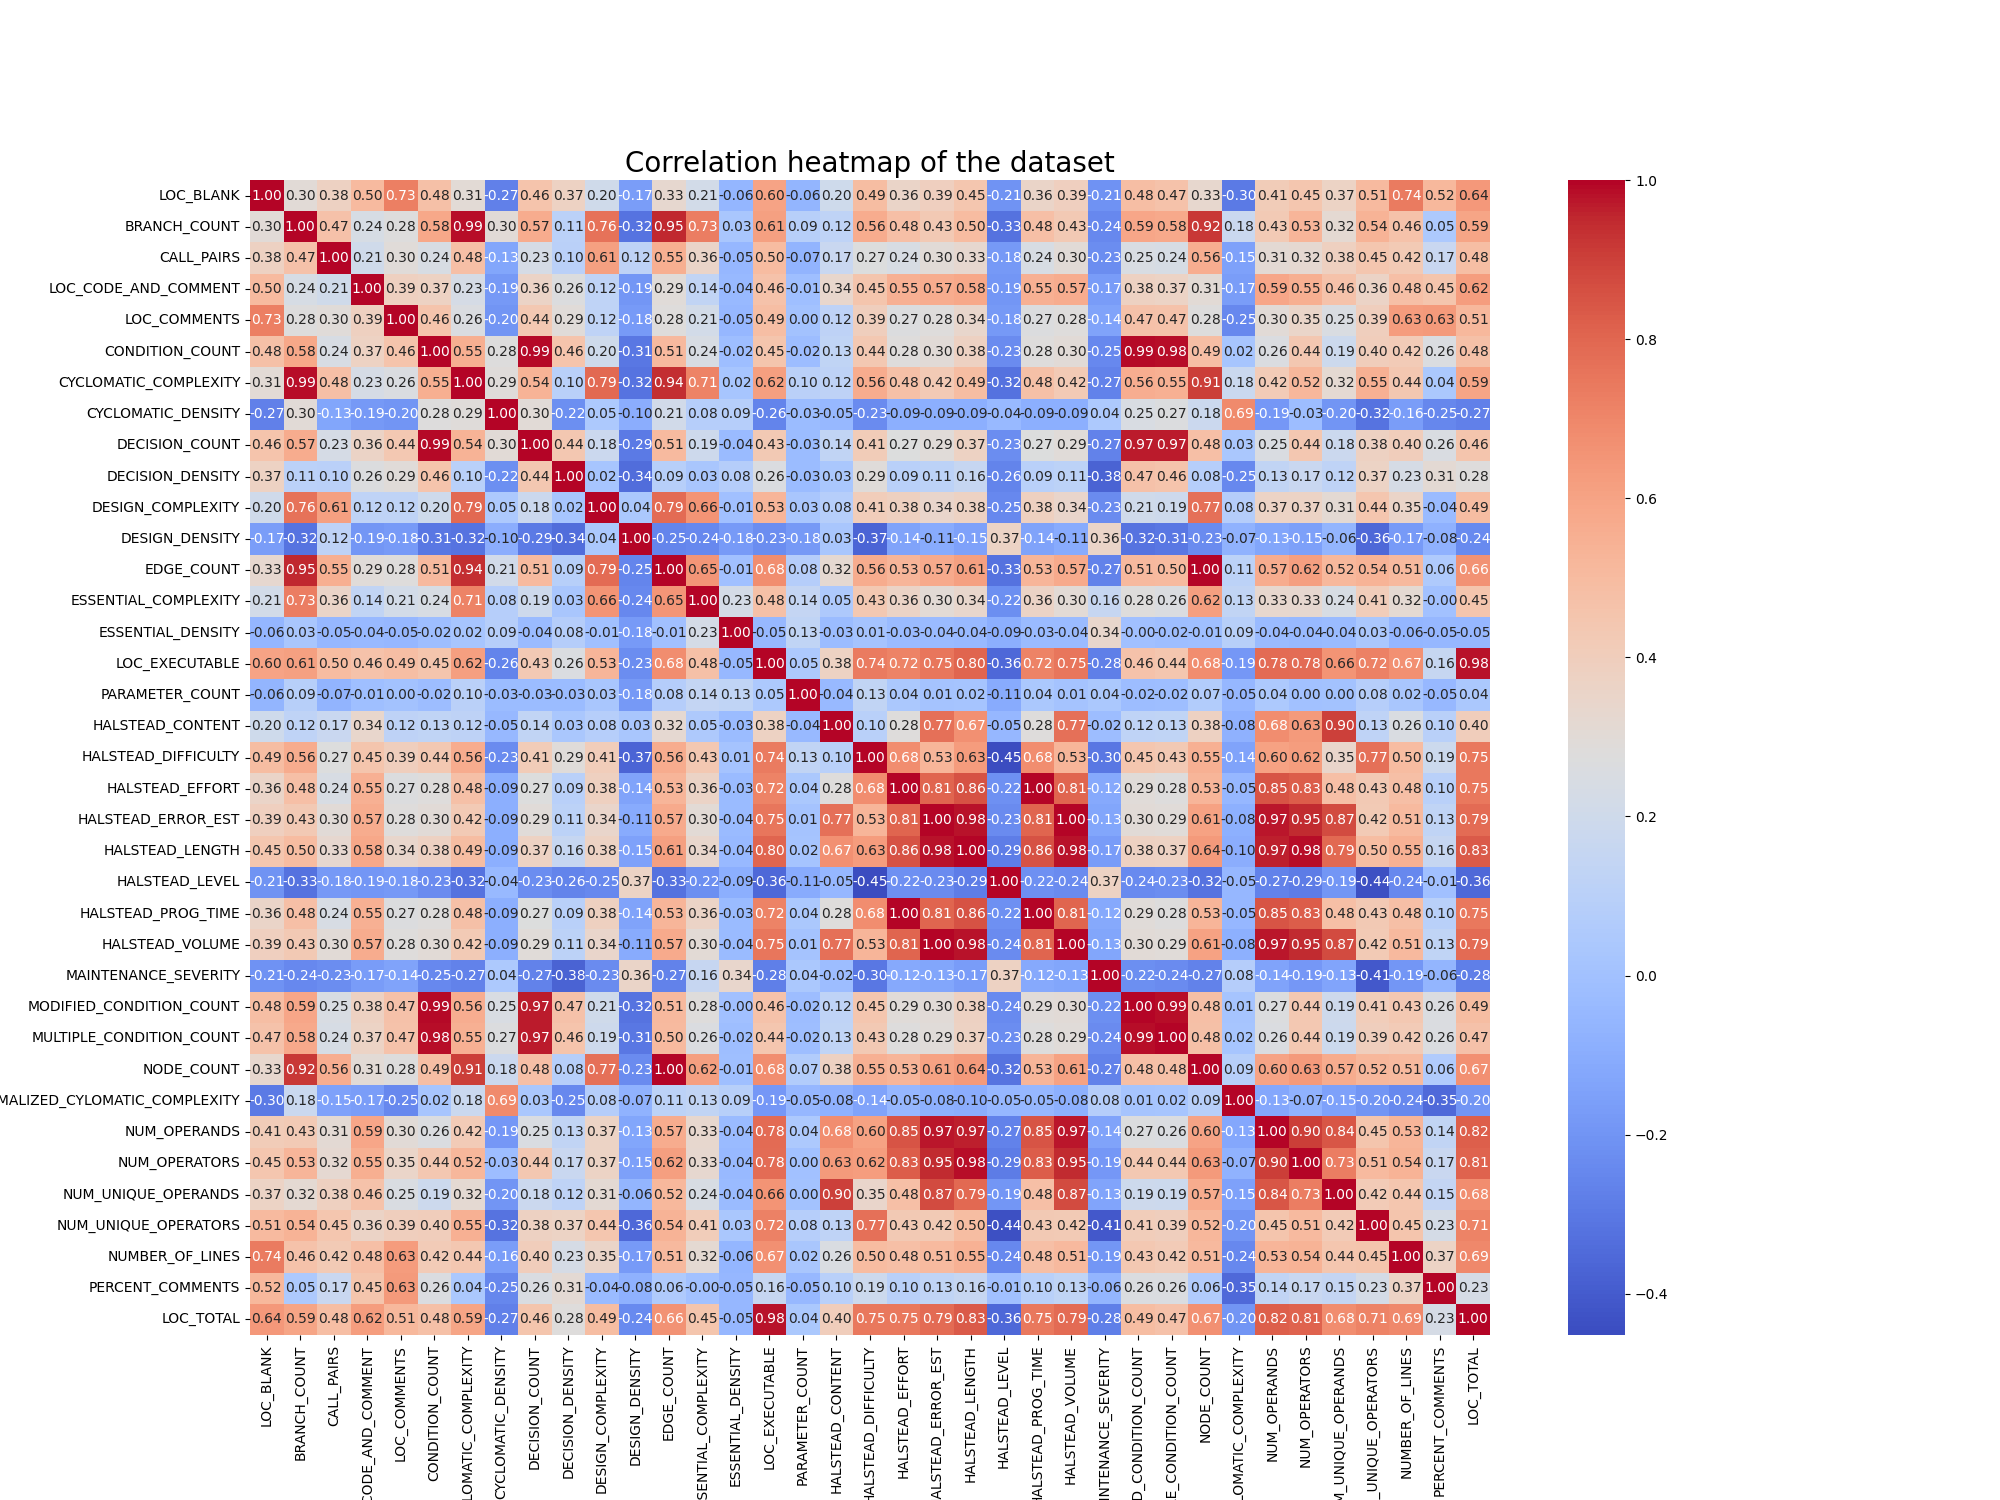
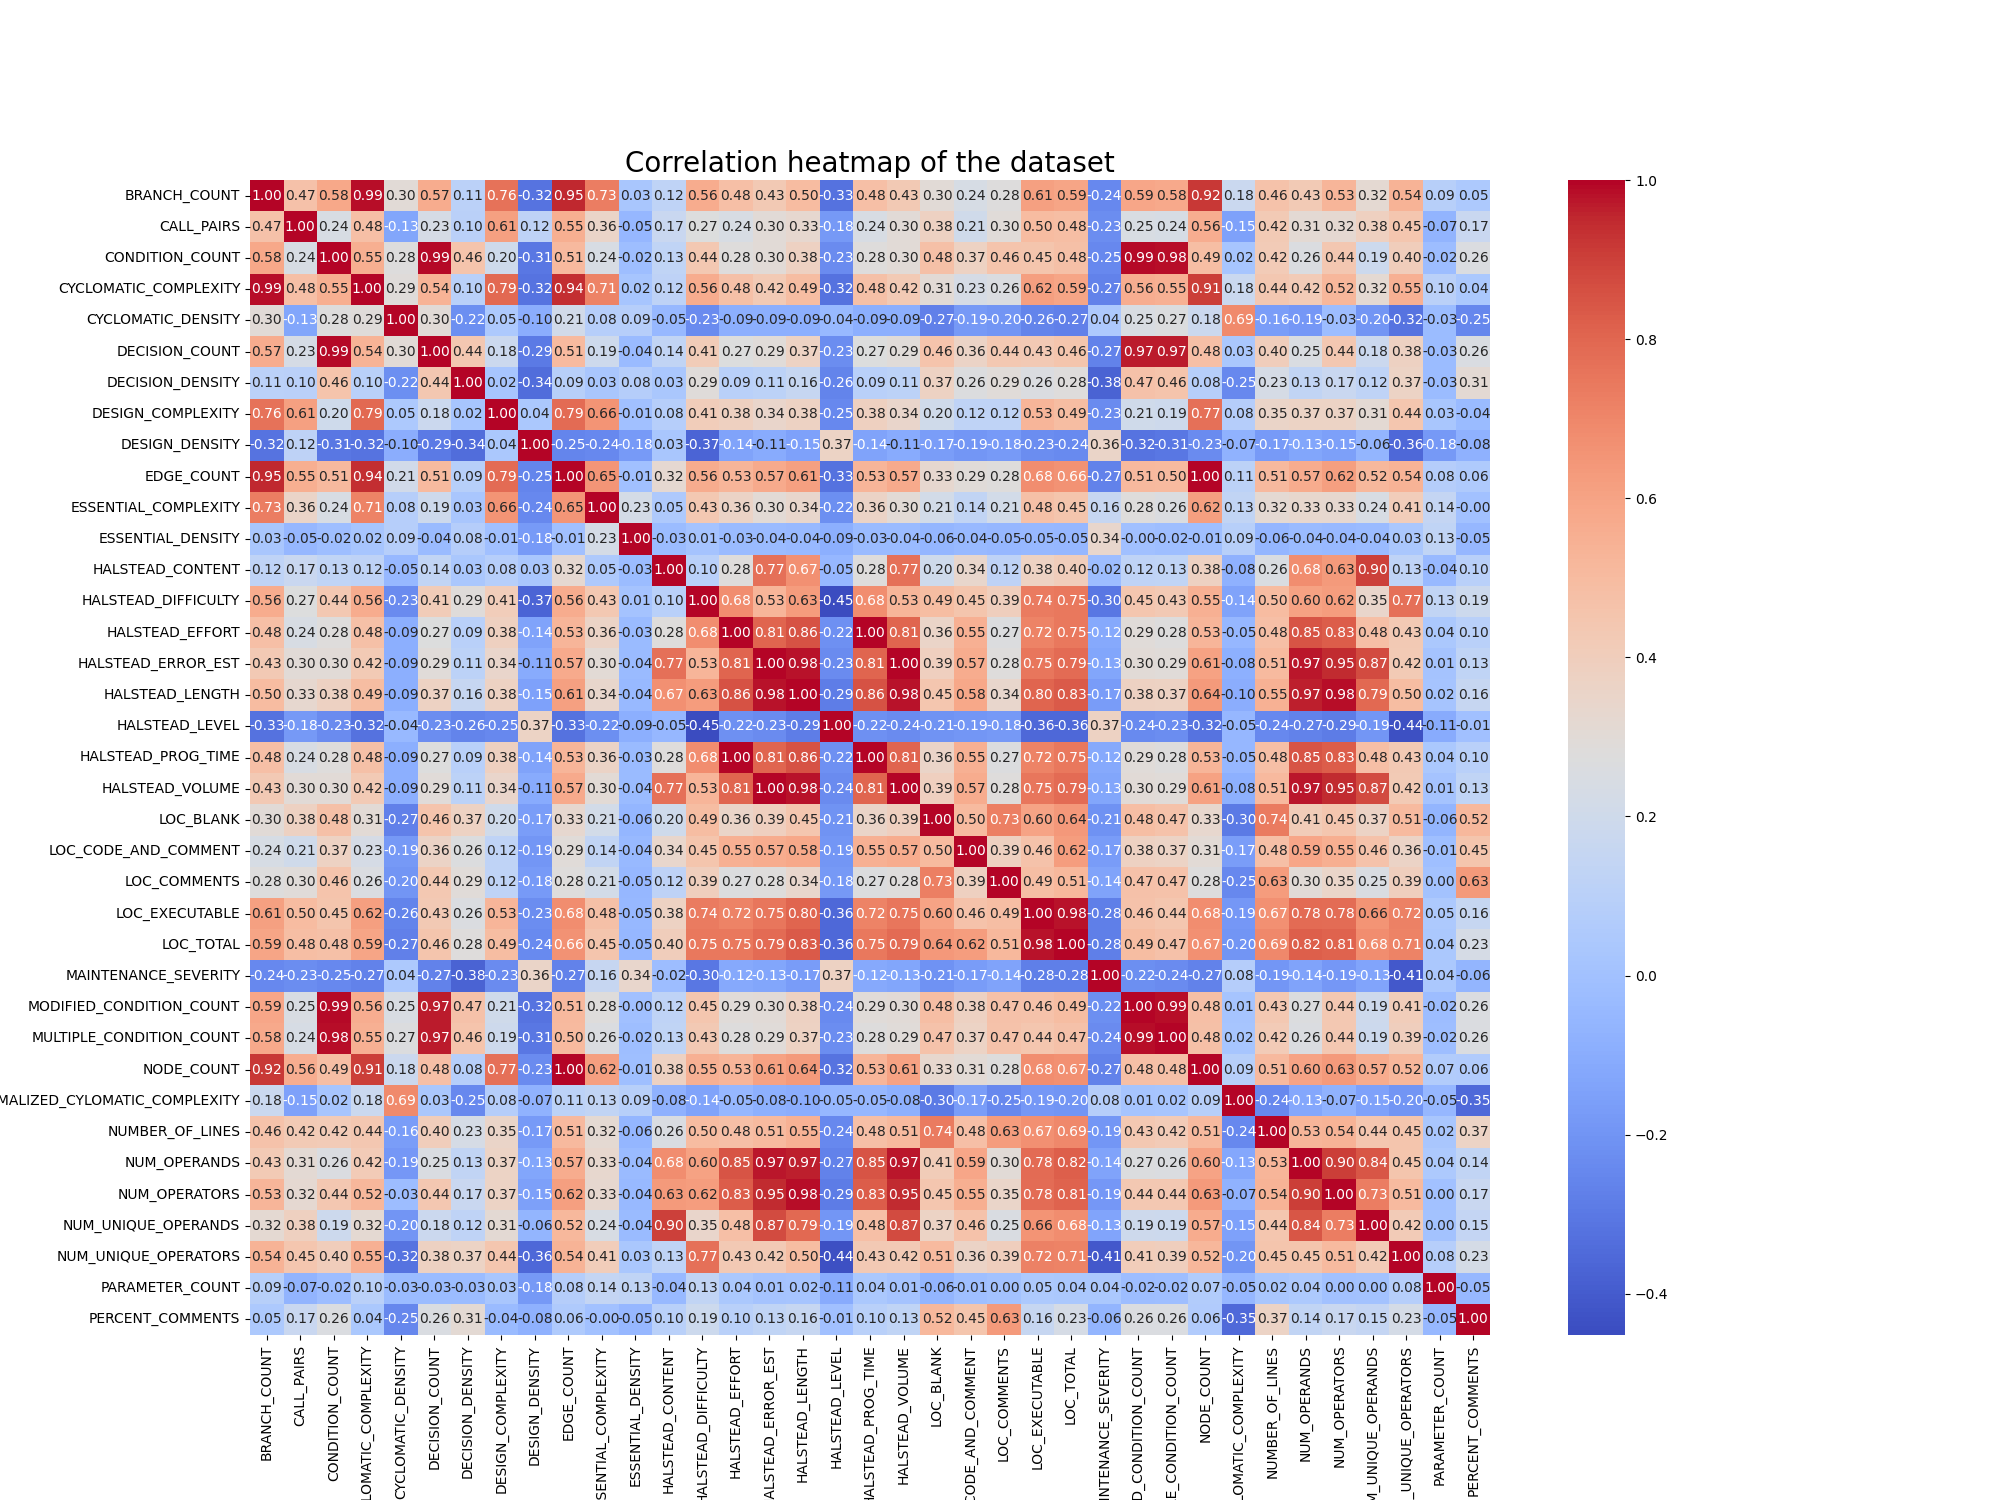
part 1 done

diff --git a/eda.py b/eda.py
@@ -1,9 +1,11 @@
 import os
 
 import matplotlib.pyplot as plt
+import numpy as np
 import openml
 import pandas as pd
 import seaborn as sns
+from openml import OpenMLDataset
 from sklearn.preprocessing import MinMaxScaler, StandardScaler
 
 from config import Config
@@ -22,8 +24,17 @@ def create_assets_folder() -> None:
 
 
 class EDA:
+    """
+    Class for Exploratory Data Analysis (EDA) on a dataset.
+    """
+
     def __init__(self):
-        self.dataset = None
+        """
+        Initialize the EDA class.
+
+        On initialization, assets folders are created if they don't exist, following Config class.
+        """
+        self.dataset: OpenMLDataset | None = None
         self.X: pd.DataFrame = pd.DataFrame()
         self.y: pd.Series = pd.Series()
 
@@ -68,17 +79,7 @@ class EDA:
         print(self.X.describe().to_markdown())
         print("----------------------------------")
 
-        print("----------------------------------")
-        print("\nSummary statistics of the target variable:")
-        print(self.X.info())
-        print("----------------------------------")
-
-        print("----------------------------------")
-        print("\nFirst 5 rows of the dataset:")
-        print(self.X.head())
-        print("----------------------------------")
-
-    def plot_visualization(self) -> None:
+    def plot_visualization(self, file_name_suffix="") -> None:
         """
         Plot visualizations of the dataset.
         1. Histograms / KDE plots
@@ -86,25 +87,26 @@ class EDA:
         3. Class distribution (sns.countplot)
         """
 
-        # Histograms / KDE plots
-        self.X.hist(figsize=(20, 15), bins=100)
+        # Histograms
+        self.X[sorted(self.X.columns)].hist(figsize=(20, 15), bins=100)
         plt.suptitle("Histograms of the dataset", fontsize=20)
-        plt.savefig(Config.DIR_EDA + "/histograms.png")
+        plt.tight_layout(pad=1)
+        plt.savefig(Config.DIR_EDA + f"/histograms{file_name_suffix}.png")
 
         # Correlation heatmap
         plt.figure(figsize=(20, 15))
-        sns.heatmap(self.X.corr(), annot=True, fmt=".2f", cmap="coolwarm")
+        sns.heatmap(self.X[sorted(self.X.columns)].corr(), annot=True, fmt=".2f", cmap="coolwarm")
         plt.title("Correlation heatmap of the dataset", fontsize=20)
-        plt.savefig(Config.DIR_EDA + "/correlation_heatmap.png")
+        plt.savefig(Config.DIR_EDA + f"/correlation_heatmap{file_name_suffix}.png")
 
         # Class distribution
         plt.figure(figsize=(20, 15))
         sns.countplot(x=self.y, data=self.X)
         plt.title("Class distribution of the dataset", fontsize=20)
         plt.xticks(rotation=90)
-        plt.savefig(Config.DIR_EDA + "/class_distribution.png")
+        plt.savefig(Config.DIR_EDA + f"/class_distribution{file_name_suffix}.png")
 
-    def data_checks(self) -> None:
+    def data_checks(self, file_name_suffix="") -> None:
         """
         Checks:
         1. Missing values (df.isnull().sum())
@@ -132,7 +134,7 @@ class EDA:
             fig.delaxes(axes[j])
 
         plt.tight_layout()
-        plt.savefig(Config.DIR_EDA + "/boxplots.png")
+        plt.savefig(Config.DIR_EDA + f"/boxplots{file_name_suffix}.png")
 
         # Check for outliers using IQR
 
@@ -194,3 +196,17 @@ class EDA:
         # Remove outliers
         self.X = self.X[~((self.X < lower_bound) | (self.X > upper_bound)).any(axis=1)]
         print("Outliers removed from the dataset.")
+
+    def drop_highly_correlated_features(self, threshold: float = 0.9) -> None:
+        """
+        Drop highly correlated features from the dataset.
+        """
+        to_drop = ['HALSTEAD_ERROR_EST', 'HALSTEAD_LENGTH', 'HALSTEAD_PROG_TIME', 'HALSTEAD_VOLUME']
+        self.X = self.X.drop(columns=to_drop)
+        print(f"Dropped highly correlated features: {to_drop}")
+
+    def export_eda_members(self) -> (pd.DataFrame, pd.Series):
+        """
+        Export the dataset members (X and y).
+        """
+        return self.X, self.y

diff --git a/main.py b/main.py
@@ -1,7 +1,9 @@
 from eda import EDA
 
 if __name__ == "__main__":
+    ####################################################################################
     # Part 1 - EDA (Exploratory Data Analysis)
+    ####################################################################################
     eda = EDA()
 
     # Exercise 1: Load the dataset
@@ -21,7 +23,7 @@ if __name__ == "__main__":
     eda.data_checks()
 
     # Exercise 6: Normalize and standardize numeric features (if you think it is needed)
-    # It's needed here because the features are not on the same scale
+    # Normalize and standardize numeric features
 
     # Exercise 7: Summarize the different insights of the EDA phase: Are there issues with some features?
     # High feature correlation ? Missing values ? Outliers ?
@@ -31,5 +33,22 @@ if __name__ == "__main__":
     # There is no missing values in the dataset.
     # Remove duplicates:
     eda.remove_duplicates()
+    # Remove outlines:
+    eda.remove_outliers()
 
-    # Remove outliers:
+    eda.plot_visualization(file_name_suffix="_post_duplicate_and_outliner_removal")
+    eda.data_checks(file_name_suffix="_post_duplicate_and_outliner_removal")
+
+    # Drop highly correlated features
+    eda.drop_highly_correlated_features()
+
+    eda.plot_visualization(file_name_suffix="_post_highly_correlated_features_removal")
+    eda.data_checks(file_name_suffix="_post_highly_correlated_features_removal")
+
+    # Save eda members
+    X, y = eda.export_eda_members()
+
+    ####################################################################################
+    # Part 2: Train-Test Split and Baseline Model
+    ####################################################################################
+    # Exercise 1: Split the dataset into train and test sets (80% train, 20% test)
